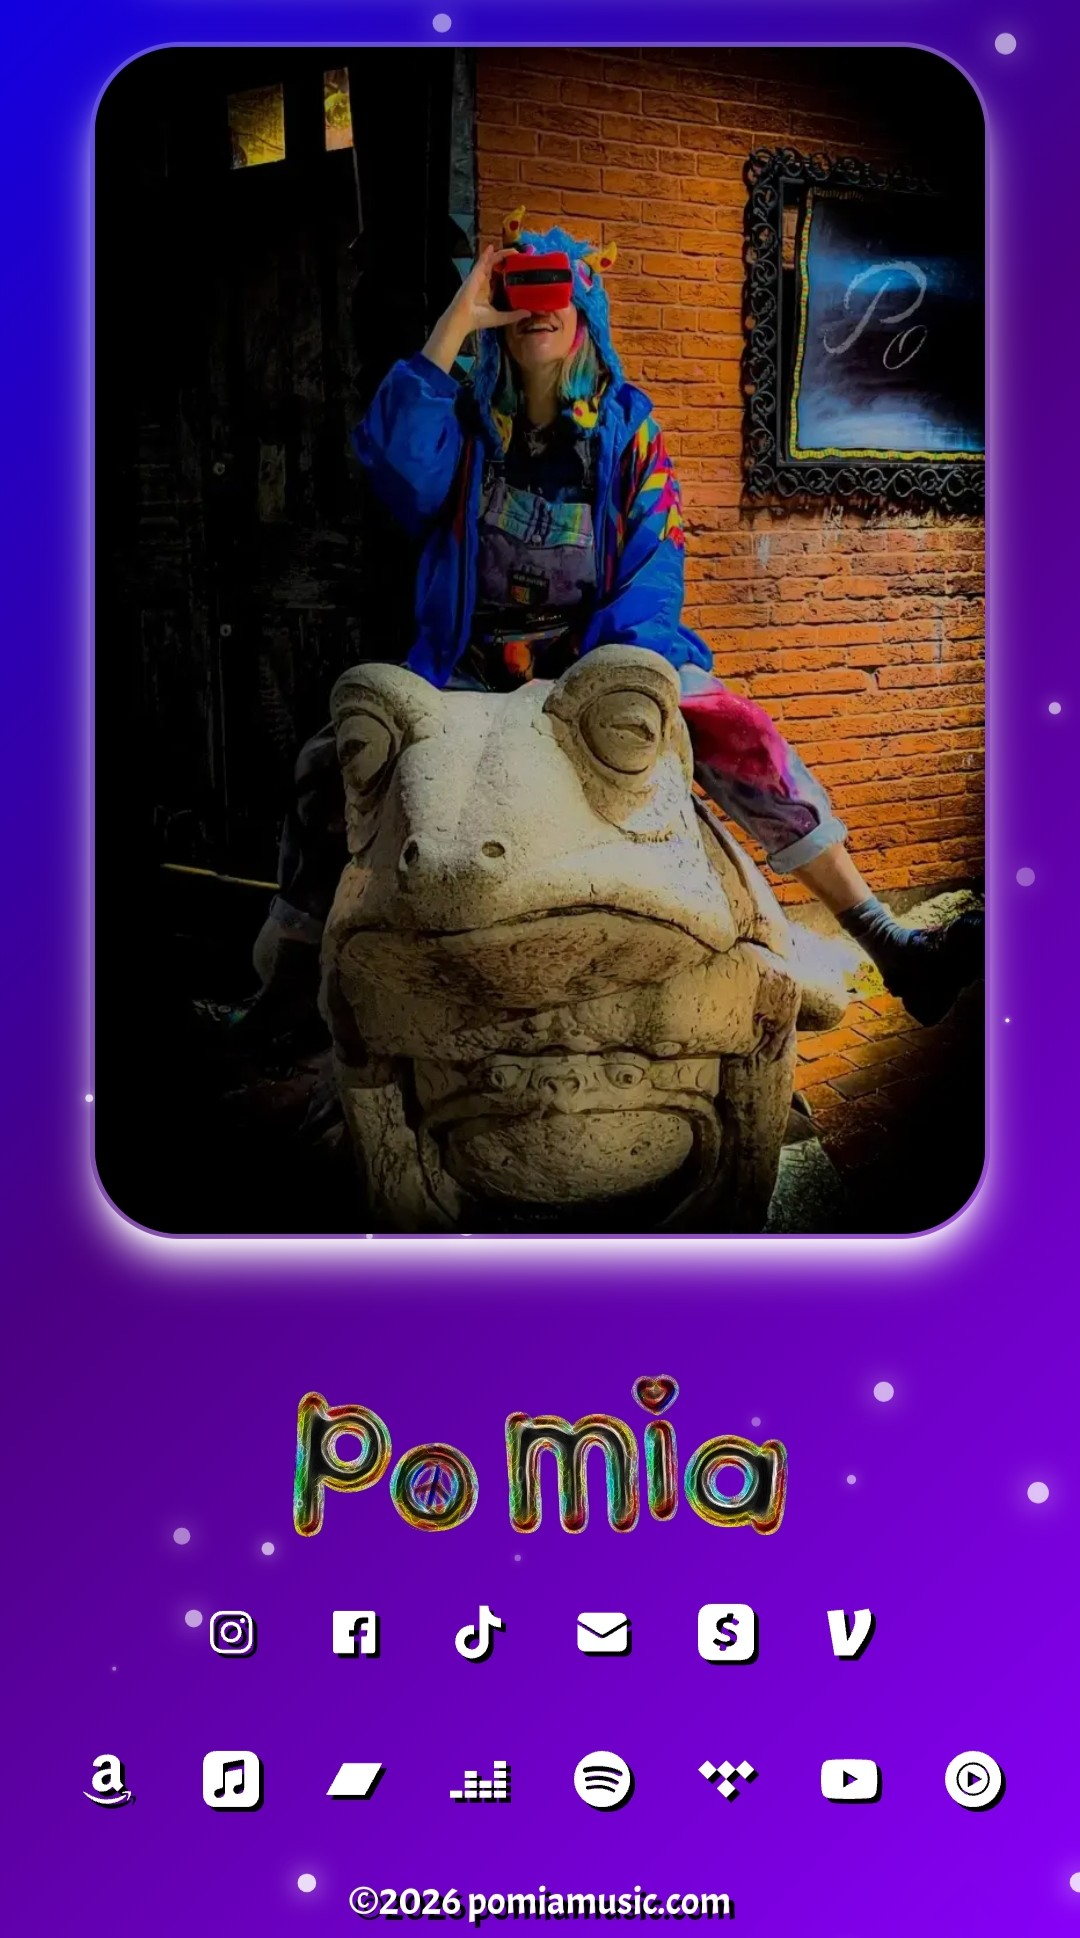
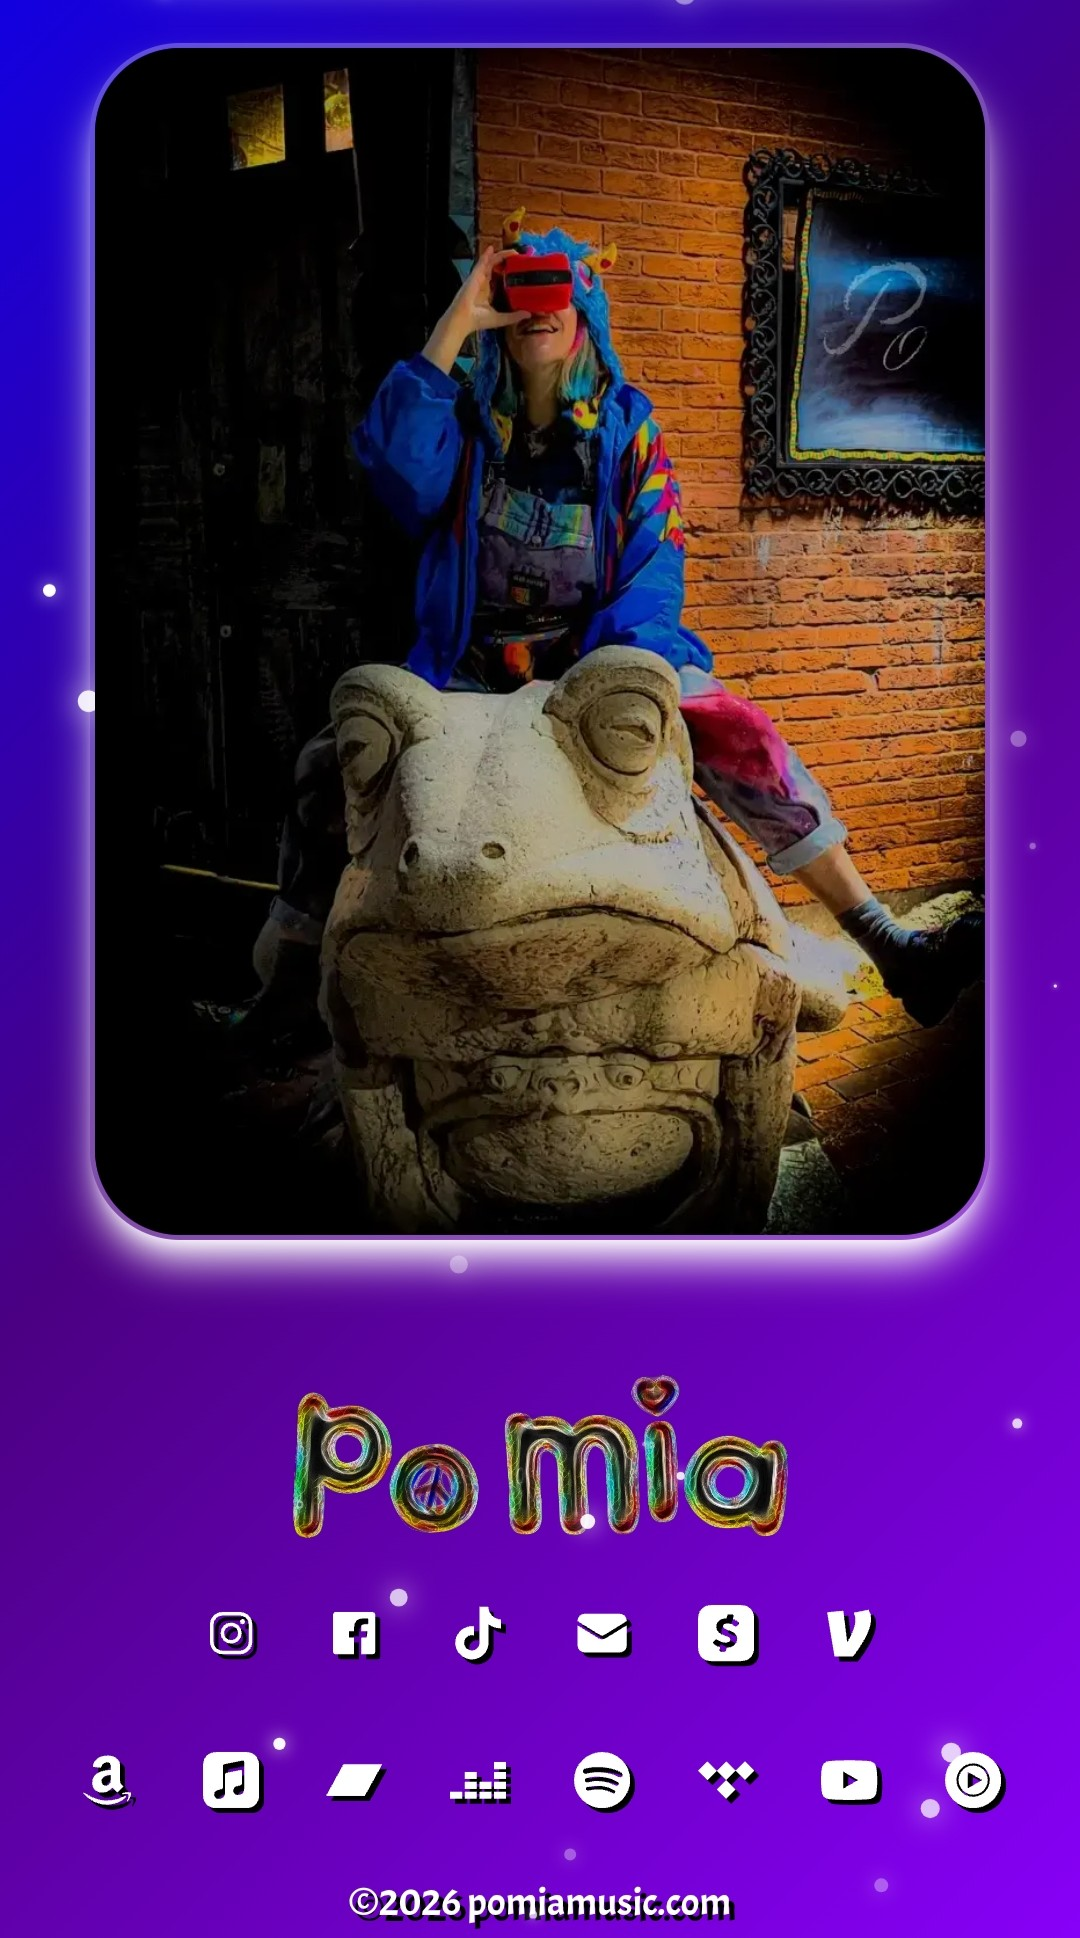
conditional render for live or in dev project, add mobile images for po

diff --git a/lib/project-data.ts b/lib/project-data.ts
@@ -1,4 +1,6 @@
-export const projects = [
+import type { Project } from "./definitions";
+
+export const projects: Project[] = [
   {
     client: "Mike Martin Media",
     project: "Business Website",
@@ -29,6 +31,7 @@ export const projects = [
       "/images/projects/mmm/desktop/blog-preview.png",
       "/images/projects/mmm/desktop/contact-form.png",
     ],
+    status: "live",
     url: "mikemartinmedia.com",
   },
   {
@@ -41,8 +44,12 @@ export const projects = [
       "/images/projects/po-mia/mobile/mobile-menu.jpg",
       "/images/projects/po-mia/mobile/calendar.jpg",
       "/images/projects/po-mia/mobile/music.jpg",
+      "/images/projects/po-mia/mobile/po-logue.jpg",
+      "/images/projects/po-mia/mobile/golden-tongue.jpg",
+      "/images/projects/po-mia/mobile/rebirth.jpg",
+      "/images/projects/po-mia/mobile/hope-is-plenty.jpg",
       "/images/projects/po-mia/mobile/contact.jpg",
-      "/images/projects/po-mia/mobile/frog-footer.jpg",
+      // "/images/projects/po-mia/mobile/frog-footer.jpg",
       "/images/projects/po-mia/mobile/photos.jpg",
       "/images/projects/po-mia/mobile/contact.jpg",
       "/images/projects/po-mia/mobile/videos.jpg",
@@ -56,7 +63,7 @@ export const projects = [
       "/images/projects/po-mia/desktop/sign-in.png",
       "/images/projects/po-mia/desktop/sign-up.png"
     ],
-    url: "pomiamusic.com",
+    status: "in-development",
     features: [
       "Responsive",
       "Accessible",
@@ -93,6 +100,7 @@ export const projects = [
       "/images/projects/the-long-emergency/desktop/shows-past.png",
       "/images/projects/the-long-emergency/desktop/shows-future.png",
     ],
+    status: "live",
     url: "thelongemergency.net",
     features: [
       "Responsive",

diff --git a/components/project-gallery.tsx b/components/project-gallery.tsx
@@ -56,15 +56,22 @@ export default function ProjectGallery() {
             </div>
             <div className="grow mx-6 mb-6 p-4 border-2 border-zinc-900 rounded-2xl shadow-2xl description-container bg-white/50 text-black">
               <div className="flex justify-center">
-                <a
-                  href={`https://${project.url}`}
-                  target="_blank"
-                  rel="noopener noreferrer"
-                  className="inline-block hover:scale-105 active:scale-100 transition-all duration-300 ease-in-out will-change-transform">
-                  <h4 className="mx-auto font-semibold sm:text-lg md:text-xl mb-2 border-b-2 border-black">
-                    {project.url}
+                {" "}
+                {project.status === "live" ? (
+                  <a
+                    href={"https://" + project.url}
+                    target="_blank"
+                    rel="noopener noreferrer"
+                    className="inline-block hover:scale-105 active:scale-100 transition-all duration-300 ease-in-out will-change-transform">
+                    <h4 className="mx-auto font-semibold sm:text-lg md:text-xl mb-2 border-b-2 border-black">
+                      {project.url}
+                    </h4>
+                  </a>
+                ) : (
+                  <h4 className="mx-auto font-semibold sm:text-lg md:text-xl mb-2 opacity-70 cursor-default">
+                    In Development - Coming Soon
                   </h4>
-                </a>
+                )}
               </div>
               <p className="md:text-lg 2xl:text-xl">{project.description}</p>
             </div>

diff --git a/lib/definitions.ts b/lib/definitions.ts
@@ -1,12 +1,22 @@
-export type Project = {
+type ProjectBase = {
   client: string;
   project: string;
   description: string;
   desktop_image: string[];
   mobile_images: string[];
-  url: string;
   features: string[];
 };
+
+type LiveProject = ProjectBase & {
+  status: "live";
+  url: string;
+};
+
+type InDevelopmentProject = ProjectBase & {
+  status: "in-development";
+};
+
+export type Project = LiveProject | InDevelopmentProject;
 
 export type Client = {
   id: string;
@@ -21,4 +31,4 @@ export type Message = {
   email: string;
   message: string;
   date: string;
-}
+};
